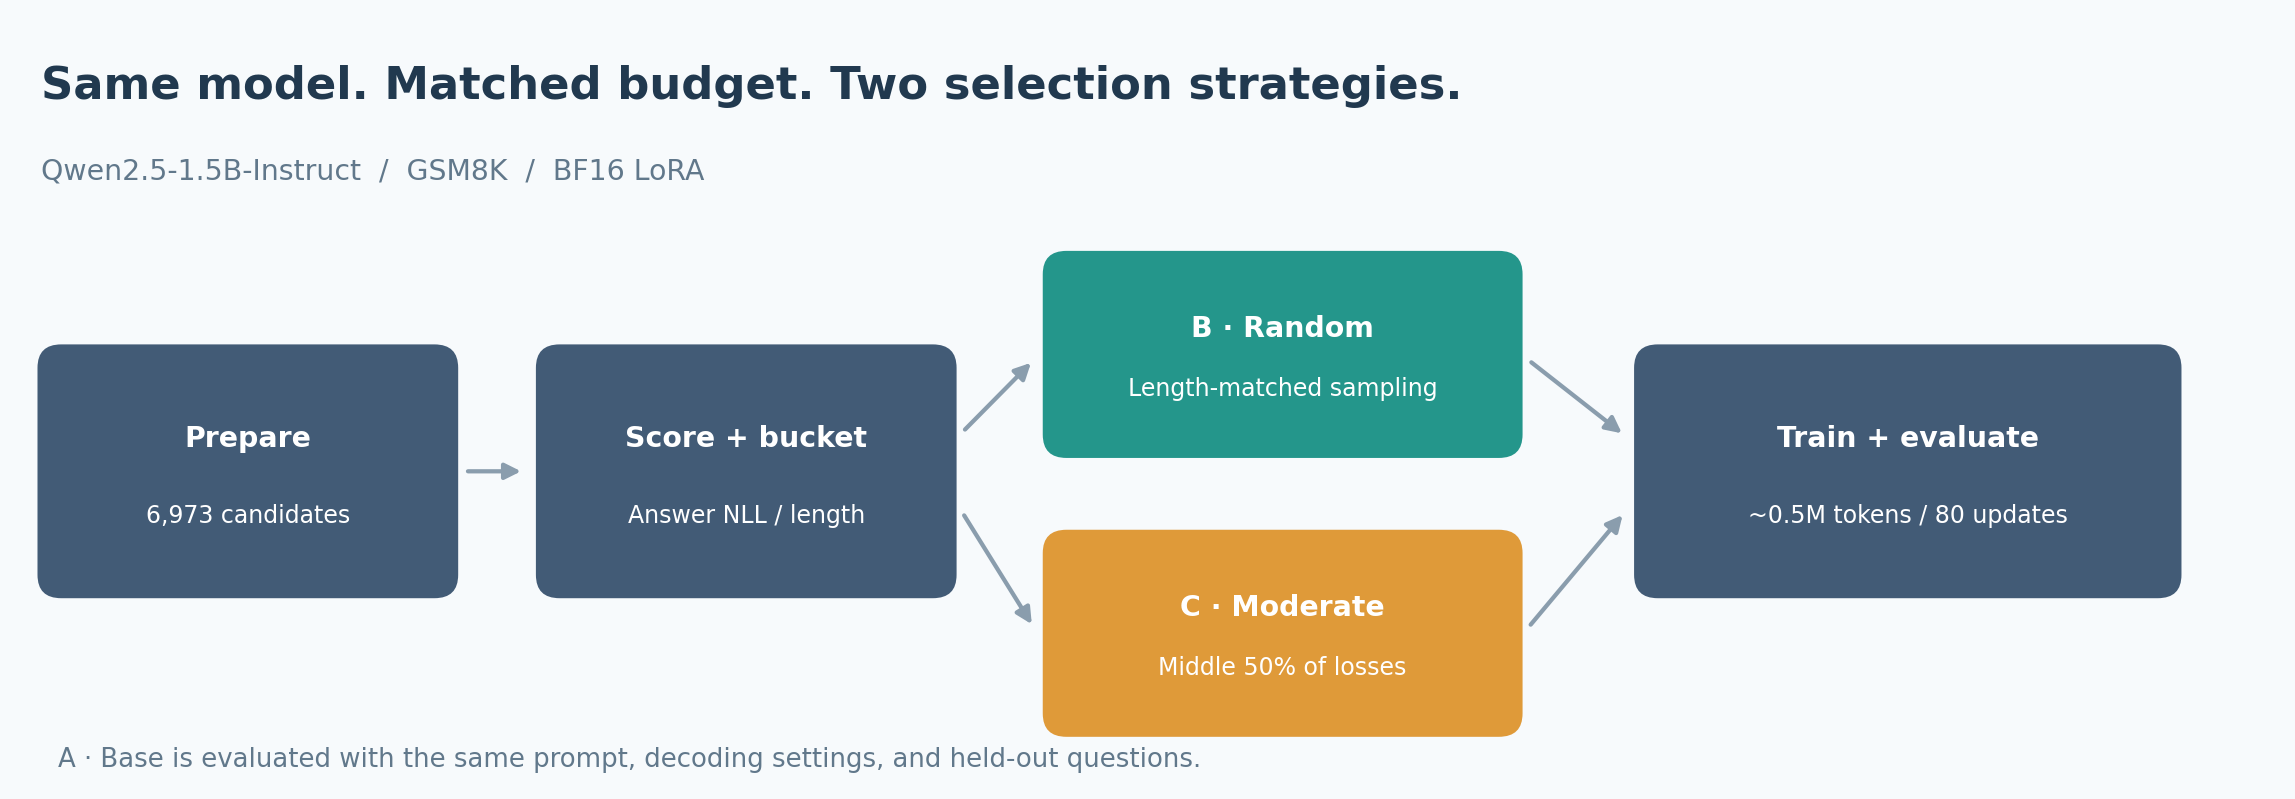
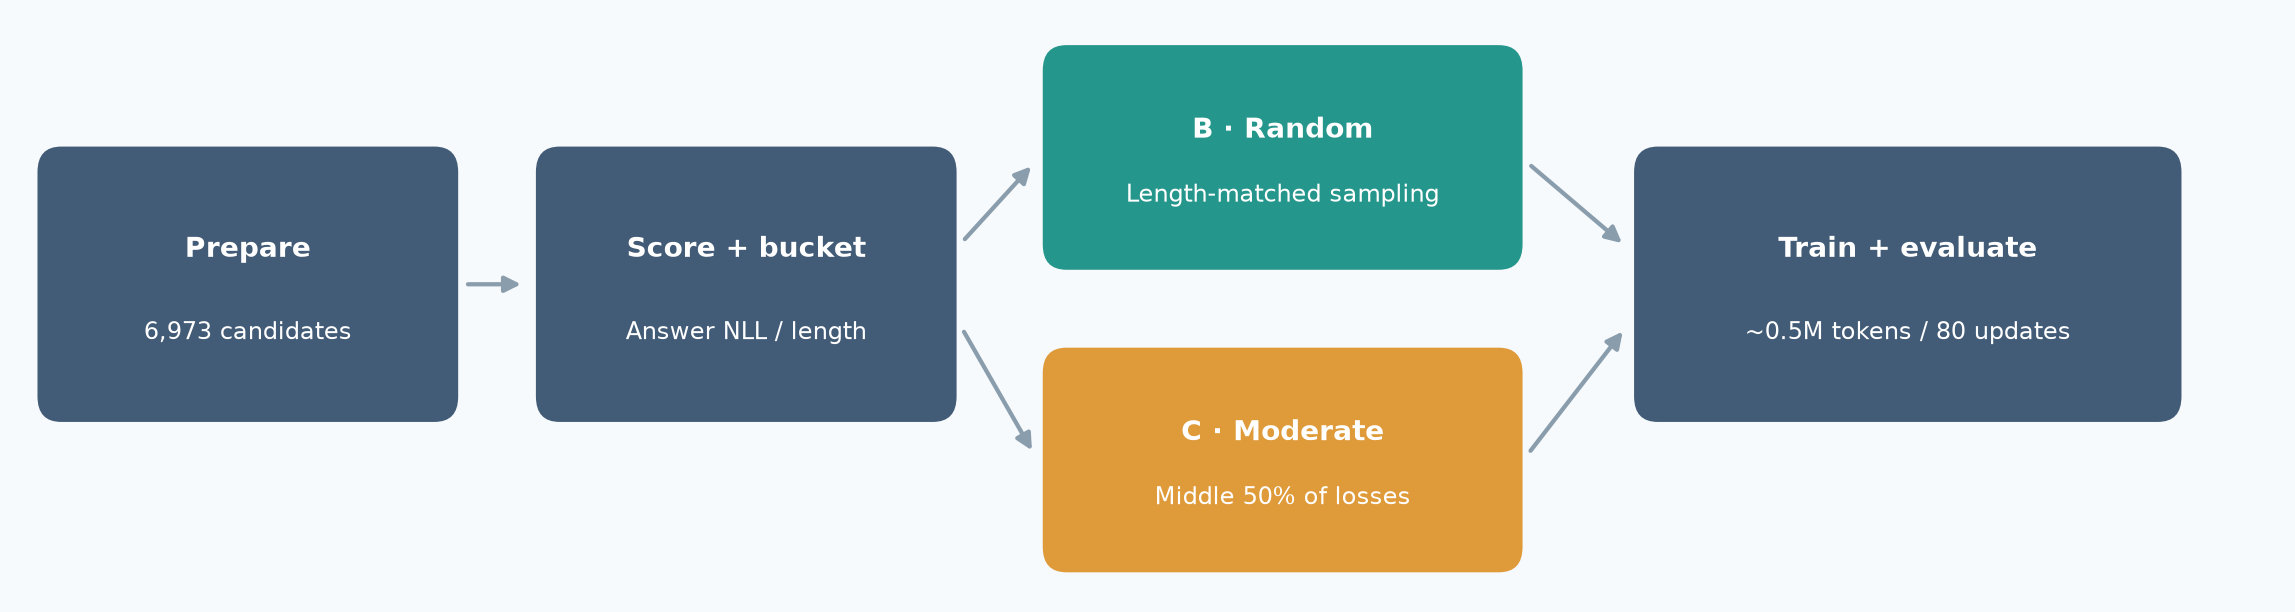
docs: simplify the README pipeline figure
Remove the heading, model subtitle, and footer annotation from the pipeline
image. Keep the process boxes and arrows, and trim the surrounding space.

Regenerate the figure from its plotting source and inspect the rendered PNG.

diff --git a/scripts/plot_results.py b/scripts/plot_results.py
@@ -37,11 +37,9 @@ def main():
     fig.savefig(ASSETS / "results.png", dpi=170)
     plt.close(fig)
 
-    fig, axis = plt.subplots(figsize=(13.5, 4.7), layout="constrained")
-    axis.set(xlim=(0, 13.5), ylim=(0, 4.7))
+    fig, axis = plt.subplots(figsize=(13.5, 3.6), layout="constrained")
+    axis.set(xlim=(0, 13.5), ylim=(0.15, 3.45))
     axis.axis("off")
-    axis.text(0.2, 4.15, "Same model. Matched budget. Two selection strategies.", fontsize=19, weight="bold", color="#21394f")
-    axis.text(0.2, 3.67, "Qwen2.5-1.5B-Instruct  /  GSM8K  /  BF16 LoRA", color="#61788b", fontsize=12)
 
     def box(x, y, width, height, title, detail, color):
         axis.add_patch(FancyBboxPatch((x, y), width, height, boxstyle="round,pad=0.12,rounding_size=0.14",
@@ -62,7 +60,6 @@ def main():
     arrow((5.65, 1.68), (6.08, 0.98))
     arrow((9.0, 2.59), (9.58, 2.13))
     arrow((9.0, 0.98), (9.58, 1.68))
-    axis.text(0.3, 0.15, "A · Base is evaluated with the same prompt, decoding settings, and held-out questions.", fontsize=11, color="#61788b")
     fig.savefig(ASSETS / "pipeline.png", dpi=170)
     plt.close(fig)
 
